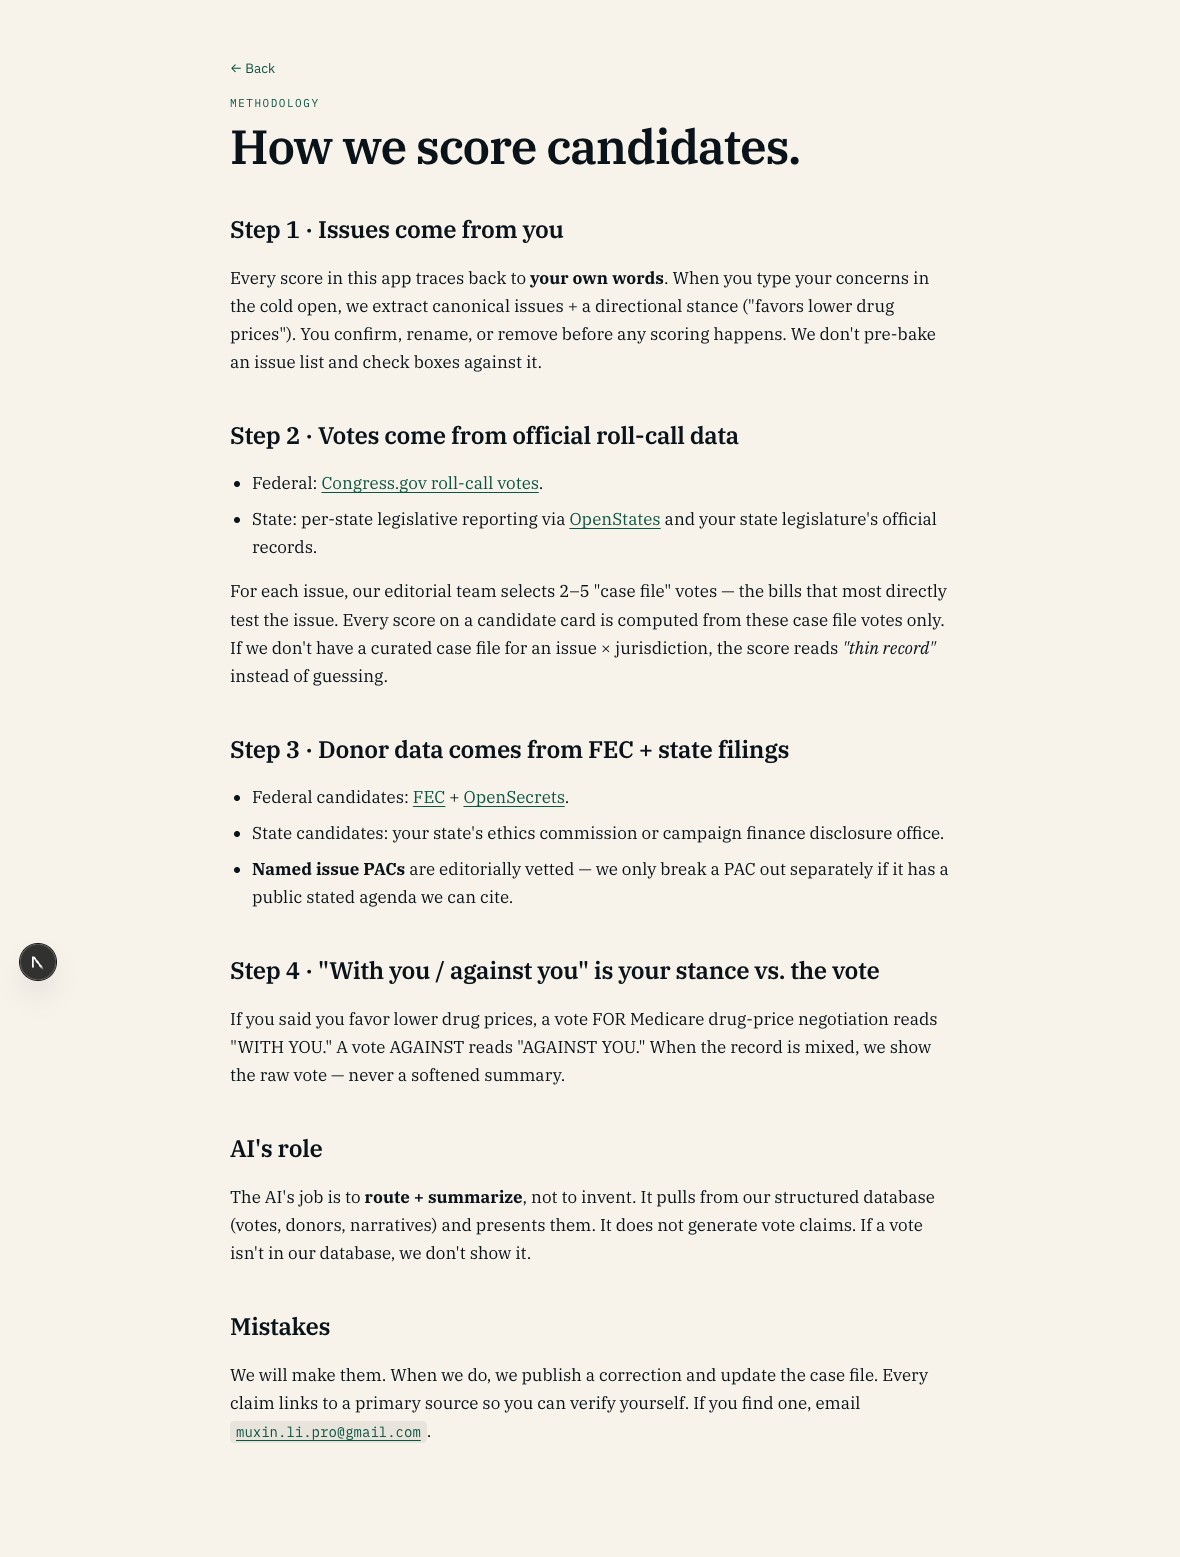
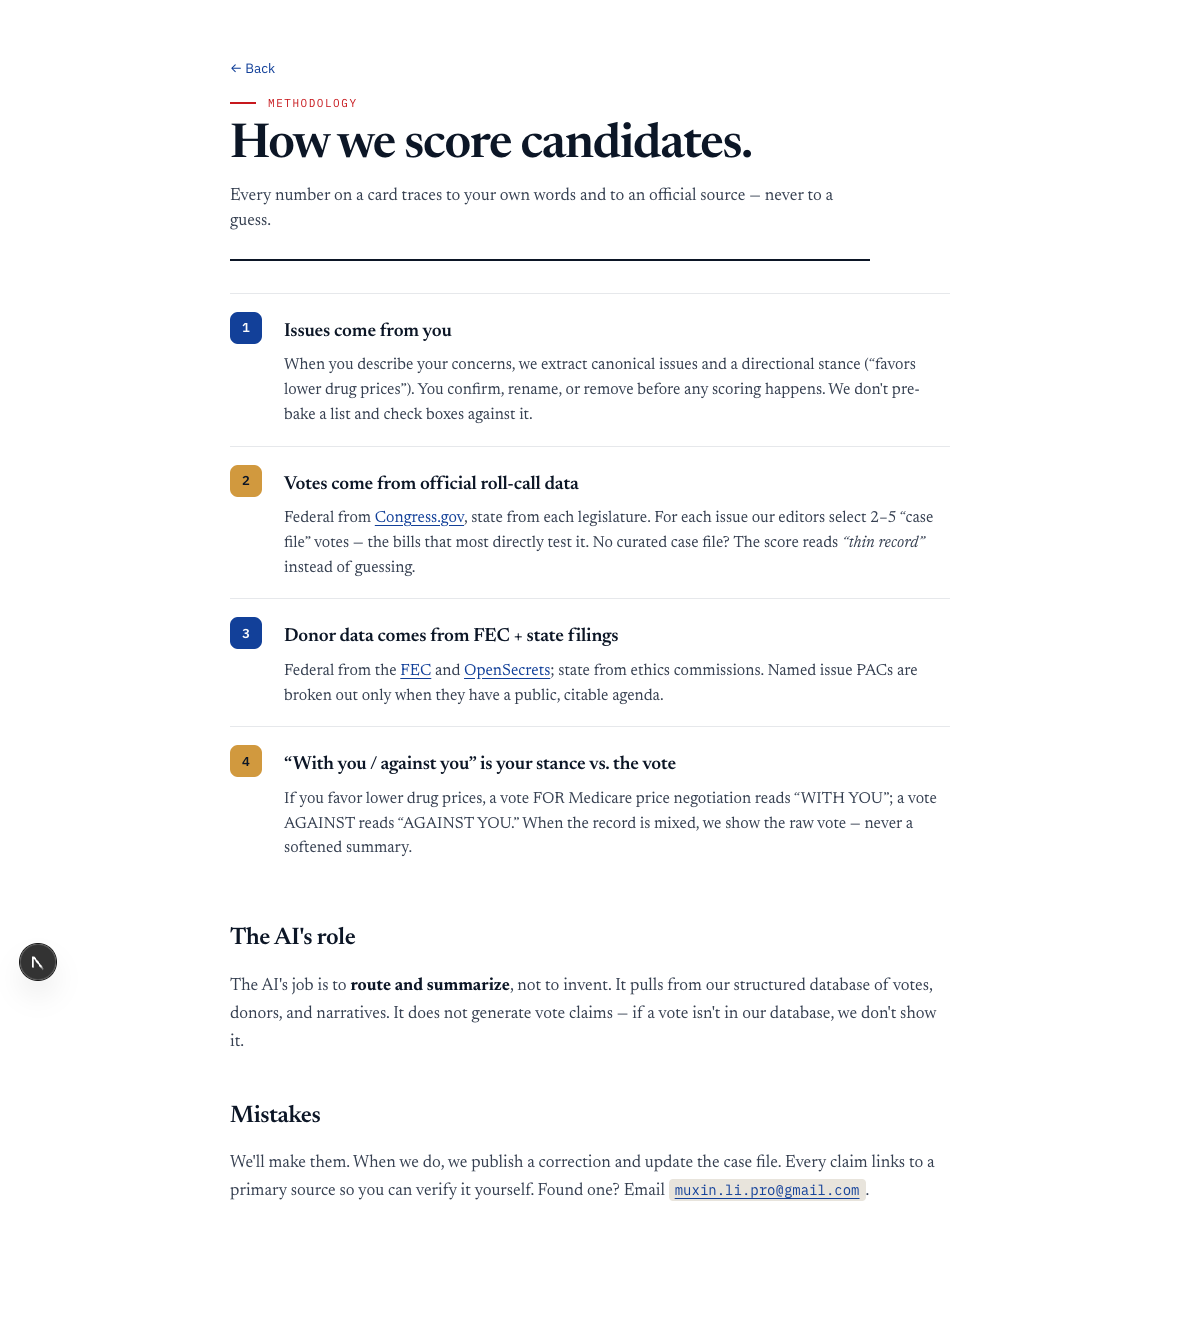
fix(design): verbatim canvas copy + .sp-step structure + Bold Flag pass on Methodology page (08b-howitworks) (#254)
- StaticPage (VoterChoiceApp.tsx) gains className usage for a scoped
  palette pass (dek prop already existed from the tip jar fix);
  MethodologyPage now passes the verbatim canvas dek and className="sp-methodology".
- Rebuilt the 4 methodology steps onto canvas's .sp-step/.n numbered-badge
  grid structure (was plain <h2>Step N ·...</h2> headings) -- a real JSX
  restructure, not just a re-skin.
- Restored per-step body copy verbatim from design-handoff/keystone-canvas/
  src/screens-statics.jsx's HowItWorksVC, including curly quotes/em-dashes
  byte-exact. Steps 2 and 3 collapsed their <ul><li> sub-lists back into
  canvas's single flowing paragraphs (canvas doesn't use bullet lists here).
  "AI's role" -> "The AI's role"; both AI's-role/Mistakes bodies matched
  verbatim.
- public/prototype-c.css: new .sp-wrap.sp-methodology scoped white-palette
  token block (--mt-*) + .sp-step/.n styling, following the same pattern as
  the prior .sp-wrap.sp-tipjar fix -- scoped only to this page.
- CONTENT_PROBES's existing 08b-howitworks entry (dek, 2 assertions) grew
  2 more assertions covering distinctive step-1/step-4 body phrases, so the
  probe also locks in the step-copy restoration, not just the dek.

Verification:
- content check: PASS, 4/4 assertions, 0 missing.
- visual check: plateaus at ratio 0.382 (threshold 0.18) -- root-caused, not
  a copy/CSS gap. The gate's detectContentBBox crop step (which strips the
[…]

diff --git a/src/prototype/VoterChoiceApp.tsx b/src/prototype/VoterChoiceApp.tsx
@@ -4959,32 +4959,41 @@ function AboutPage({ onBack }) {
 
 function MethodologyPage({ onBack }) {
   return (
-    <StaticPage onBack={onBack} eyebrow="Methodology" title="How we score candidates.">
-      <h2>Step 1 · Issues come from you</h2>
-      <p>Every score in this app traces back to <b>your own words</b>. When you type your concerns in the cold open, we extract canonical issues + a directional stance ("favors lower drug prices"). You confirm, rename, or remove before any scoring happens. We don't pre-bake an issue list and check boxes against it.</p>
+    <StaticPage onBack={onBack} eyebrow="Methodology" title="How we score candidates." dek="Every number on a card traces to your own words and to an official source — never to a guess." className="sp-methodology">
+      <div className="sp-step">
+        <div className="n">1</div>
+        <div>
+          <h3>Issues come from you</h3>
+          <p>When you describe your concerns, we extract canonical issues and a directional stance (“favors lower drug prices”). You confirm, rename, or remove before any scoring happens. We don't pre-bake a list and check boxes against it.</p>
+        </div>
+      </div>
+      <div className="sp-step">
+        <div className="n">2</div>
+        <div>
+          <h3>Votes come from official roll-call data</h3>
+          <p>Federal from <a href="https://www.congress.gov/roll-call-votes" target="_blank" rel="noopener noreferrer">Congress.gov</a>, state from each legislature. For each issue our editors select 2–5 “case file” votes — the bills that most directly test it. No curated case file? The score reads <i>“thin record”</i> instead of guessing.</p>
+        </div>
+      </div>
+      <div className="sp-step">
+        <div className="n">3</div>
+        <div>
+          <h3>Donor data comes from FEC + state filings</h3>
+          <p>Federal from the <a href="https://www.fec.gov" target="_blank" rel="noopener noreferrer">FEC</a> and <a href="https://www.opensecrets.org" target="_blank" rel="noopener noreferrer">OpenSecrets</a>; state from ethics commissions. Named issue PACs are broken out only when they have a public, citable agenda.</p>
+        </div>
+      </div>
+      <div className="sp-step">
+        <div className="n">4</div>
+        <div>
+          <h3>“With you / against you” is your stance vs. the vote</h3>
+          <p>If you favor lower drug prices, a vote FOR Medicare price negotiation reads “WITH YOU”; a vote AGAINST reads “AGAINST YOU.” When the record is mixed, we show the raw vote — never a softened summary.</p>
+        </div>
+      </div>
 
-      <h2>Step 2 · Votes come from official roll-call data</h2>
-      <ul>
-        <li>Federal: <a href="https://www.congress.gov/roll-call-votes" target="_blank" rel="noopener noreferrer">Congress.gov roll-call votes</a>.</li>
-        <li>State: per-state legislative reporting via <a href="https://openstates.org" target="_blank" rel="noopener noreferrer">OpenStates</a> and your state legislature's official records.</li>
-      </ul>
-      <p>For each issue, our editorial team selects 2–5 "case file" votes — the bills that most directly test the issue. Every score on a candidate card is computed from these case file votes only. If we don't have a curated case file for an issue × jurisdiction, the score reads <i>"thin record"</i> instead of guessing.</p>
-
-      <h2>Step 3 · Donor data comes from FEC + state filings</h2>
-      <ul>
-        <li>Federal candidates: <a href="https://www.fec.gov" target="_blank" rel="noopener noreferrer">FEC</a> + <a href="https://www.opensecrets.org" target="_blank" rel="noopener noreferrer">OpenSecrets</a>.</li>
-        <li>State candidates: your state's ethics commission or campaign finance disclosure office.</li>
-        <li><b>Named issue PACs</b> are editorially vetted — we only break a PAC out separately if it has a public stated agenda we can cite.</li>
-      </ul>
-
-      <h2>Step 4 · "With you / against you" is your stance vs. the vote</h2>
-      <p>If you said you favor lower drug prices, a vote FOR Medicare drug-price negotiation reads "WITH YOU." A vote AGAINST reads "AGAINST YOU." When the record is mixed, we show the raw vote — never a softened summary.</p>
-
-      <h2>AI's role</h2>
-      <p>The AI's job is to <b>route + summarize</b>, not to invent. It pulls from our structured database (votes, donors, narratives) and presents them. It does not generate vote claims. If a vote isn't in our database, we don't show it.</p>
+      <h2>The AI's role</h2>
+      <p>The AI's job is to <b>route and summarize</b>, not to invent. It pulls from our structured database of votes, donors, and narratives. It does not generate vote claims — if a vote isn't in our database, we don't show it.</p>
 
       <h2>Mistakes</h2>
-      <p>We will make them. When we do, we publish a correction and update the case file. Every claim links to a primary source so you can verify yourself. If you find one, email <a href="mailto:muxin.li.pro@gmail.com"><code>muxin.li.pro@gmail.com</code></a>.</p>
+      <p>We'll make them. When we do, we publish a correction and update the case file. Every claim links to a primary source so you can verify it yourself. Found one? Email <a href="mailto:muxin.li.pro@gmail.com"><code>muxin.li.pro@gmail.com</code></a>.</p>
     </StaticPage>
   );
 }

diff --git a/docs/design-review/statics.html b/docs/design-review/statics.html
@@ -49,11 +49,11 @@
 </head>
 <body>
   <h1>Keystone review — Statics (About / How it works / Privacy / Tip jar / Loading)</h1>
-  <div class="sub">ref: <code>HEAD (a0e2017b)</code> &middot; generated 2026-07-10T14:32:00.469Z</div>
+  <div class="sub">ref: <code>HEAD (aea5992a)</code> &middot; generated 2026-07-10T14:27:57.518Z</div>
   
   <div class="nav-links"><a href="index.html">&larr; back to index</a></div>
   <table>
-    <thead><tr><th>Scenario</th><th>Reference artboard</th><th>Repo (HEAD (a0e2017b))</th></tr></thead>
+    <thead><tr><th>Scenario</th><th>Reference artboard</th><th>Repo (HEAD (aea5992a))</th></tr></thead>
     <tbody>
       <tr>
         <td class="meta">
@@ -65,6 +65,54 @@
         </td>
         <td class="shot"><img src="screenshots/refs/08a-about.png" alt="reference artboard"></td>
         <td class="shot"><img src="screenshots/repo/08a-about.png" alt="repo screenshot"></td>
+      </tr>
+
+      <tr>
+        <td class="meta">
+          <div class="id">08b-howitworks</div>
+          <div class="label">Statics — How it works (MethodologyPage)</div>
+          <span class="badge changed">changed since base</span>
+          <span class="tag yes">automated</span>
+          <div class="note">Nav → 'How it works' (label renamed from 'Methodology' by #213, 2026-07-08 — confirmed by reading App2.tsx: it renders the base AppNav, whose link uses t('nav.howItWorks') = 'How it works', not AppNavWithChrome's t('nav.methodology'). Still navigates to the same methodology stage/MethodologyPage. This scenario used to click the old 'Methodology' label and timed out post-rename (Phase 0 finding #8). Scoped to the 'Main' nav landmark — the homepage's own address-box copy also contains an unrelated 'Read about how it works…' link (dead navigate('howitworks') branch) whose accessible name substring-matches 'How it works' too, so an unscoped getByRole hits a strict-mode violation (2 matches).</div>
+        </td>
+        <td class="shot"><img src="screenshots/refs/08b-howitworks.png" alt="reference artboard"></td>
+        <td class="shot"><img src="screenshots/repo/08b-howitworks.png" alt="repo screenshot"></td>
+      </tr>
+
+      <tr>
+        <td class="meta">
+          <div class="id">08c-privacy</div>
+          <div class="label">Statics — Privacy</div>
+          <span class="badge changed">changed since base</span>
+          <span class="tag yes">automated</span>
+          <div class="note">Nav → 'Privacy'.</div>
+        </td>
+        <td class="shot"><img src="screenshots/refs/08c-privacy.png" alt="reference artboard"></td>
+        <td class="shot"><img src="screenshots/repo/08c-privacy.png" alt="repo screenshot"></td>
+      </tr>
+
+      <tr>
+        <td class="meta">
+          <div class="id">08d-tipjar</div>
+          <div class="label">Statics — Tip jar</div>
+          <span class="badge changed">changed since base</span>
+          <span class="tag yes">automated</span>
+          <div class="note">Nav → 'Tip jar'.</div>
+        </td>
+        <td class="shot"><img src="screenshots/refs/08d-tipjar.png" alt="reference artboard"></td>
+        <td class="shot"><img src="screenshots/repo/08d-tipjar.png" alt="repo screenshot"></td>
+      </tr>
+
+      <tr>
+        <td class="meta">
+          <div class="id">08e-loading</div>
+          <div class="label">Statics — Loading state</div>
+          <span class="badge changed">changed since base</span>
+          <span class="tag yes">automated</span>
+          <div class="note">The checklist is a self-advancing 600ms/step client timer, independent of network timing — /api/delegation is deliberately delayed ~2.5s so the stage doesn't flip away before the screenshot.</div>
+        </td>
+        <td class="shot"><img src="screenshots/refs/08e-loading.png" alt="reference artboard"></td>
+        <td class="shot"><img src="screenshots/repo/08e-loading.png" alt="repo screenshot"></td>
       </tr></tbody>
   </table>
   <div class="nav-links"><a href="index.html">&larr; back to index</a></div>

diff --git a/public/prototype-c.css b/public/prototype-c.css
@@ -2950,6 +2950,107 @@ Bumps
   color: var(--ab-ink);
 }
 
+/* ---------- Methodology — Bold Flag / Keystone parity (08b-howitworks) ----------
+   Locally-scoped white-palette tokens matching design-handoff/keystone-canvas
+   src/screens.css .screen[data-palette="white"] + statics.css .sp-step.
+   Scoped to .sp-methodology only — does not touch the shared civic palette or
+   any other static page. */
+.sp-wrap.sp-methodology {
+  --mt-paper: oklch(1 0 0);
+  --mt-paper-2: oklch(0.985 0.003 258);
+  --mt-ink: oklch(0.2 0.035 260);
+  --mt-ink-2: oklch(0.37 0.032 260);
+  --mt-ink-3: oklch(0.54 0.026 260);
+  --mt-brand: oklch(0.4 0.155 262);
+  --mt-gold: oklch(0.72 0.125 76);
+  --mt-rule: oklch(0.88 0.006 260);
+  --mt-rule-2: oklch(0.93 0.005 260);
+  --mt-replace: oklch(0.53 0.205 27);
+  --mt-serif: "Newsreader", Georgia, serif;
+  --mt-mono: "IBM Plex Mono", ui-monospace, monospace;
+  background: var(--mt-paper);
+}
+.sp-wrap.sp-methodology .sp-back {
+  color: var(--mt-brand);
+}
+.sp-wrap.sp-methodology .sp-eyebrow {
+  display: flex;
+  align-items: center;
+  gap: 12px;
+  color: var(--mt-replace);
+}
+.sp-wrap.sp-methodology .sp-eyebrow::before {
+  content: "";
+  width: 26px;
+  height: 2px;
+  background: var(--mt-replace);
+}
+.sp-wrap.sp-methodology .sp-title {
+  font-family: var(--mt-serif);
+  color: var(--mt-ink);
+}
+.sp-wrap.sp-methodology .sp-dek {
+  font-family: var(--mt-serif);
+  color: var(--mt-ink-2);
+  border-bottom: 2px solid var(--mt-ink);
+  padding-bottom: 24px;
+}
+.sp-wrap.sp-methodology .sp-article {
+  font-family: var(--mt-serif);
+  color: var(--mt-ink-2);
+}
+.sp-wrap.sp-methodology .sp-article h2 {
+  font-family: var(--mt-serif);
+  color: var(--mt-ink);
+}
+.sp-wrap.sp-methodology .sp-article b {
+  color: var(--mt-ink);
+}
+.sp-wrap.sp-methodology .sp-article a {
+  color: var(--mt-brand);
+}
+.sp-wrap.sp-methodology .sp-step {
+  display: grid;
+  grid-template-columns: 38px 1fr;
+  gap: 16px;
+  padding: 18px 0;
+  border-top: 1px solid var(--mt-rule-2);
+}
+.sp-wrap.sp-methodology .sp-step .n {
+  font-family: var(--mt-mono);
+  font-size: 13px;
+  font-weight: 700;
+  color: var(--mt-paper-2);
+  background: var(--mt-brand);
+  width: 32px;
+  height: 32px;
+  border-radius: 8px;
+  display: grid;
+  place-items: center;
+}
+.sp-wrap.sp-methodology .sp-step:nth-child(even) .n {
+  background: var(--mt-gold);
+  color: var(--mt-ink);
+}
+.sp-wrap.sp-methodology .sp-step h3 {
+  font-family: var(--mt-serif);
+  font-weight: 600;
+  font-size: 19px;
+  margin: 4px 0 6px;
+  color: var(--mt-ink);
+  letter-spacing: -0.01em;
+}
+.sp-wrap.sp-methodology .sp-step p {
+  font-family: var(--mt-serif);
+  font-size: 16px;
+  line-height: 1.55;
+  color: var(--mt-ink-2);
+  margin: 0;
+}
+.sp-wrap.sp-methodology .sp-step a {
+  color: var(--mt-brand);
+}
+
 /* ============ NoContestedView — upload-first redesign ============
    Promotes the file upload to a big dropzone-style button at the
    top, with the paste textarea as the secondary path below. Adds

diff --git a/scripts/design/parity-gate.ts b/scripts/design/parity-gate.ts
@@ -1084,17 +1084,34 @@ const CONTENT_PROBES: ContentProbe[] = [
         description:
           "the How it works dek (second half, split after the em-dash)",
       },
+      {
+        text: "we extract canonical issues and a directional stance",
+        description:
+          "step 1 body (Issues come from you) — canvas's actual wording, not the repo's prior " +
+          '"Every score in this app traces back to your own words" phrasing',
+      },
+      {
+        text: "the raw vote",
+        description:
+          "step 4 body (“With you / against you” is your stance vs. the vote) — " +
+          'canvas ends the step with "we show the raw vote", confirming the step-4 paragraph ' +
+          "was restored verbatim rather than left as the repo's prior wording",
+      },
     ],
     note:
-      "Genuine FAIL, confirmed by reading both sides directly: MethodologyPage " +
-      "(src/prototype/VoterChoiceApp.tsx) calls <StaticPage onBack={onBack} " +
+      "Previously a genuine FAIL (confirmed by reading both sides directly): MethodologyPage " +
+      "(src/prototype/VoterChoiceApp.tsx) called <StaticPage onBack={onBack} " +
       'eyebrow="Methodology" title="How we score candidates."> with no dek prop at all, and ' +
       "StaticPage's own signature (function StaticPage({ title, eyebrow, children, onBack })) " +
-      "doesn't even accept one — so this sentence never renders anywhere on the page today. " +
-      "This is the exact class of gap (a)/(b) both miss: '08b-howitworks' already has a " +
-      "structural WAIVER (renders the same probed sp-wrap/sp-back shell as 08a-about — no class " +
-      "signal to catch a missing dek), and the coarse downscaled visual diff isn't built to " +
-      "notice one missing paragraph of text.",
+      "didn't even accept one — so the dek sentence never rendered anywhere on the page. Fixed: " +
+      "StaticPage now accepts dek (see 08d-tipjar's identical fix), MethodologyPage passes the " +
+      "verbatim canvas dek, and its 4 steps were rebuilt onto canvas's .sp-step/.n numbered-badge " +
+      "structure with per-step body copy restored verbatim (bullet-list sub-items collapsed back " +
+      "to canvas's single flowing paragraphs). The 2 added assertions above lock in that the step " +
+      "bodies were actually replaced, not just the dek — the original class of gap (a)/(b) both " +
+      "miss: '08b-howitworks' has a structural WAIVER (renders the same probed sp-wrap/sp-back " +
+      "shell as 08a-about — no class signal to catch missing/drifted copy), and the coarse " +
+      "downscaled visual diff isn't built to notice a paragraph of drifted text.",
   },
   // A 08d-tipjar CONTENT_PROBES entry is a natural follow-up once
   // wt/tipjar-bold-flag-pass (a separate, not-yet-merged branch fixing that

diff --git a/docs/design-review/results.html b/docs/design-review/results.html
@@ -49,11 +49,11 @@
 </head>
 <body>
   <h1>Keystone review — Results (workspace)</h1>
-  <div class="sub">ref: <code>HEAD (6cecf125)</code> &middot; generated 2026-07-10T13:29:53.711Z</div>
+  <div class="sub">ref: <code>HEAD (aea5992a)</code> &middot; generated 2026-07-10T14:27:57.518Z</div>
   
   <div class="nav-links"><a href="index.html">&larr; back to index</a></div>
   <table>
-    <thead><tr><th>Scenario</th><th>Reference artboard</th><th>Repo (HEAD (6cecf125))</th></tr></thead>
+    <thead><tr><th>Scenario</th><th>Reference artboard</th><th>Repo (HEAD (aea5992a))</th></tr></thead>
     <tbody>
       <tr>
         <td class="meta">

diff --git a/docs/design-review/orientation.html b/docs/design-review/orientation.html
@@ -49,11 +49,11 @@
 </head>
 <body>
   <h1>Keystone review — Orientation</h1>
-  <div class="sub">ref: <code>HEAD (6cecf125)</code> &middot; generated 2026-07-10T13:29:53.711Z</div>
+  <div class="sub">ref: <code>HEAD (aea5992a)</code> &middot; generated 2026-07-10T14:27:57.518Z</div>
   
   <div class="nav-links"><a href="index.html">&larr; back to index</a></div>
   <table>
-    <thead><tr><th>Scenario</th><th>Reference artboard</th><th>Repo (HEAD (6cecf125))</th></tr></thead>
+    <thead><tr><th>Scenario</th><th>Reference artboard</th><th>Repo (HEAD (aea5992a))</th></tr></thead>
     <tbody>
       <tr>
         <td class="meta">

diff --git a/docs/design-review/candidates.html b/docs/design-review/candidates.html
@@ -49,11 +49,11 @@
 </head>
 <body>
   <h1>Keystone review — Candidates</h1>
-  <div class="sub">ref: <code>HEAD (6cecf125)</code> &middot; generated 2026-07-10T13:29:53.711Z</div>
+  <div class="sub">ref: <code>HEAD (aea5992a)</code> &middot; generated 2026-07-10T14:27:57.518Z</div>
   
   <div class="nav-links"><a href="index.html">&larr; back to index</a></div>
   <table>
-    <thead><tr><th>Scenario</th><th>Reference artboard</th><th>Repo (HEAD (6cecf125))</th></tr></thead>
+    <thead><tr><th>Scenario</th><th>Reference artboard</th><th>Repo (HEAD (aea5992a))</th></tr></thead>
     <tbody>
       <tr>
         <td class="meta">

diff --git a/docs/design-review/moneygap.html b/docs/design-review/moneygap.html
@@ -49,11 +49,11 @@
 </head>
 <body>
   <h1>Keystone review — Money-gap</h1>
-  <div class="sub">ref: <code>HEAD (6cecf125)</code> &middot; generated 2026-07-10T13:29:53.711Z</div>
+  <div class="sub">ref: <code>HEAD (aea5992a)</code> &middot; generated 2026-07-10T14:27:57.518Z</div>
   
   <div class="nav-links"><a href="index.html">&larr; back to index</a></div>
   <table>
-    <thead><tr><th>Scenario</th><th>Reference artboard</th><th>Repo (HEAD (6cecf125))</th></tr></thead>
+    <thead><tr><th>Scenario</th><th>Reference artboard</th><th>Repo (HEAD (aea5992a))</th></tr></thead>
     <tbody>
       <tr>
         <td class="meta">

diff --git a/docs/design-review/scorecard.html b/docs/design-review/scorecard.html
@@ -49,11 +49,11 @@
 </head>
 <body>
   <h1>Keystone review — Scorecard</h1>
-  <div class="sub">ref: <code>HEAD (6cecf125)</code> &middot; generated 2026-07-10T13:29:53.711Z</div>
+  <div class="sub">ref: <code>HEAD (aea5992a)</code> &middot; generated 2026-07-10T14:27:57.518Z</div>
   
   <div class="nav-links"><a href="index.html">&larr; back to index</a></div>
   <table>
-    <thead><tr><th>Scenario</th><th>Reference artboard</th><th>Repo (HEAD (6cecf125))</th></tr></thead>
+    <thead><tr><th>Scenario</th><th>Reference artboard</th><th>Repo (HEAD (aea5992a))</th></tr></thead>
     <tbody>
       <tr>
         <td class="meta">

diff --git a/docs/design-review/homepage.html b/docs/design-review/homepage.html
@@ -49,11 +49,11 @@
 </head>
 <body>
   <h1>Keystone review — Homepage</h1>
-  <div class="sub">ref: <code>HEAD (6cecf125)</code> &middot; generated 2026-07-10T13:29:53.711Z</div>
+  <div class="sub">ref: <code>HEAD (aea5992a)</code> &middot; generated 2026-07-10T14:27:57.518Z</div>
   
   <div class="nav-links"><a href="index.html">&larr; back to index</a></div>
   <table>
-    <thead><tr><th>Scenario</th><th>Reference artboard</th><th>Repo (HEAD (6cecf125))</th></tr></thead>
+    <thead><tr><th>Scenario</th><th>Reference artboard</th><th>Repo (HEAD (aea5992a))</th></tr></thead>
     <tbody>
       <tr>
         <td class="meta">

diff --git a/docs/design-review/whynow.html b/docs/design-review/whynow.html
@@ -49,11 +49,11 @@
 </head>
 <body>
   <h1>Keystone review — Why Now</h1>
-  <div class="sub">ref: <code>HEAD (6cecf125)</code> &middot; generated 2026-07-10T13:29:53.711Z</div>
+  <div class="sub">ref: <code>HEAD (aea5992a)</code> &middot; generated 2026-07-10T14:27:57.518Z</div>
   
   <div class="nav-links"><a href="index.html">&larr; back to index</a></div>
   <table>
-    <thead><tr><th>Scenario</th><th>Reference artboard</th><th>Repo (HEAD (6cecf125))</th></tr></thead>
+    <thead><tr><th>Scenario</th><th>Reference artboard</th><th>Repo (HEAD (aea5992a))</th></tr></thead>
     <tbody>
       <tr>
         <td class="meta">

diff --git a/docs/design-review/intake.html b/docs/design-review/intake.html
@@ -49,11 +49,11 @@
 </head>
 <body>
   <h1>Keystone review — Intake</h1>
-  <div class="sub">ref: <code>HEAD (6cecf125)</code> &middot; generated 2026-07-10T13:29:53.711Z</div>
+  <div class="sub">ref: <code>HEAD (aea5992a)</code> &middot; generated 2026-07-10T14:27:57.518Z</div>
   
   <div class="nav-links"><a href="index.html">&larr; back to index</a></div>
   <table>
-    <thead><tr><th>Scenario</th><th>Reference artboard</th><th>Repo (HEAD (6cecf125))</th></tr></thead>
+    <thead><tr><th>Scenario</th><th>Reference artboard</th><th>Repo (HEAD (aea5992a))</th></tr></thead>
     <tbody>
       <tr>
         <td class="meta">
